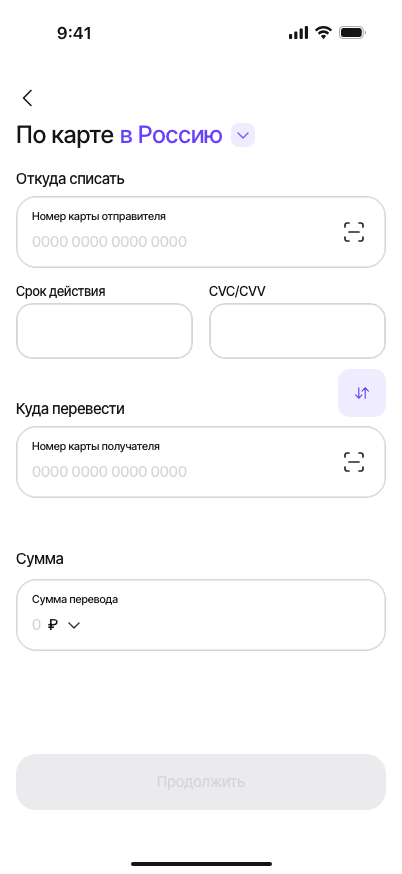
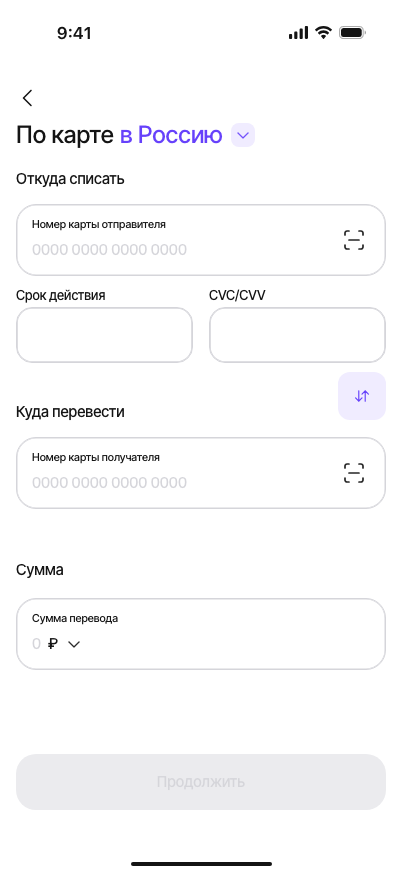
Update guest form spacing to latest Figma

diff --git a/src/styles.css b/src/styles.css
@@ -1416,12 +1416,13 @@ body:has(.guest-direction-sheet[open]) { overflow:hidden; }
 /* Empty domestic form — current Figma 138:5534 (filled layout stays 171:5848). */
 .guest-inline-source:not(.guest-international-transfer):not(.has-quote) .source-section { padding-top:7px; }
 .guest-inline-source:not(.guest-international-transfer):not(.has-quote) .source-section>h2,
-.guest-inline-source:not(.guest-international-transfer):not(.has-quote) .destination-section>h2 { margin-bottom:8px; }
-.guest-inline-source:not(.guest-international-transfer):not(.has-quote) .destination-section { margin-top:41px; }
-.guest-inline-source:not(.guest-international-transfer):not(.has-quote) .inline-amount h2 { margin-bottom:8px; }
-.guest-inline-source:not(.guest-international-transfer):not(.has-quote) .guest-swap-cards { top:calc(100% + 10px); }
-.guest-inline-source:not(.guest-international-transfer):not(.has-quote) .demo-card-suggestion { top:106px; }
-.guest-inline-source:not(.guest-international-transfer):not(.has-quote) .source-section>.demo-card-suggestion { top:113px; }
+.guest-inline-source:not(.guest-international-transfer):not(.has-quote) .destination-section>h2 { margin-bottom:16px; }
+.guest-inline-source:not(.guest-international-transfer):not(.has-quote) .card-details-row { margin-top:12px; }
+.guest-inline-source:not(.guest-international-transfer):not(.has-quote) .destination-section { margin-top:40px; }
+.guest-inline-source:not(.guest-international-transfer):not(.has-quote) .inline-amount h2 { margin-bottom:16px; }
+.guest-inline-source:not(.guest-international-transfer):not(.has-quote) .guest-swap-cards { top:calc(100% + 9px); }
+.guest-inline-source:not(.guest-international-transfer):not(.has-quote) .demo-card-suggestion { top:114px; }
+.guest-inline-source:not(.guest-international-transfer):not(.has-quote) .source-section>.demo-card-suggestion { top:121px; }
 
 /* Fractional Figma strokes must not be rounded down by CSS border rasterization. */
 .guest-inline-source .destination-field,
